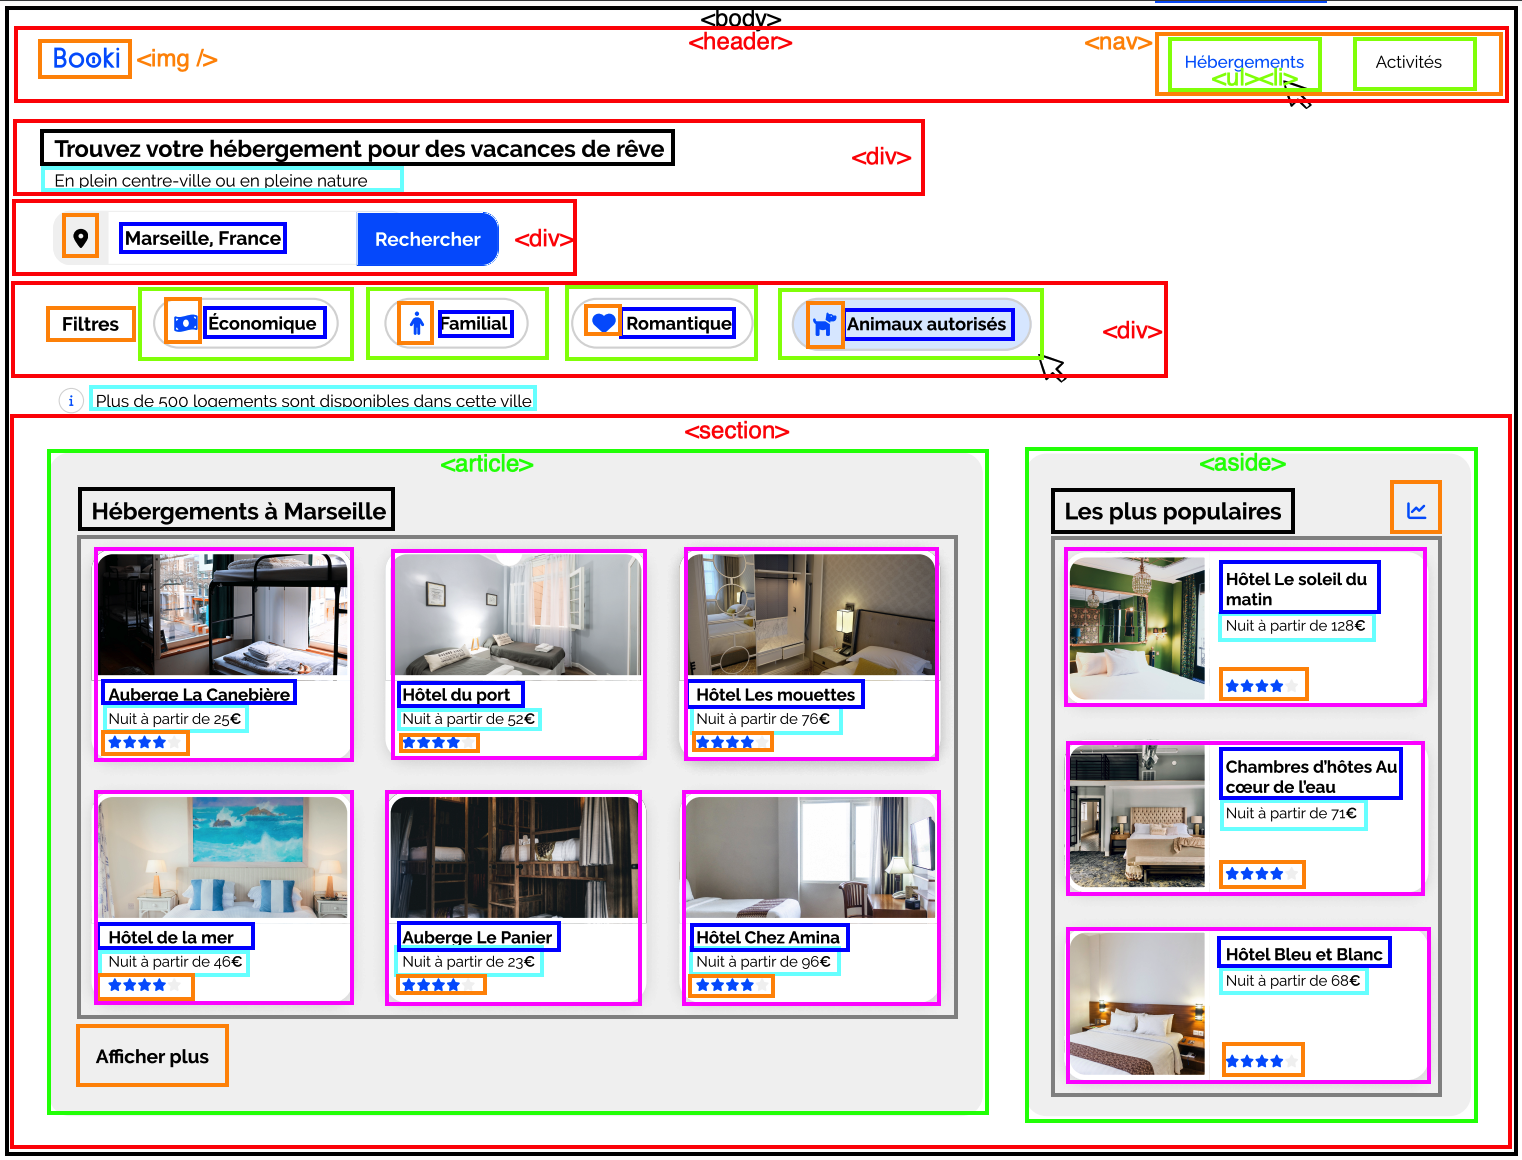
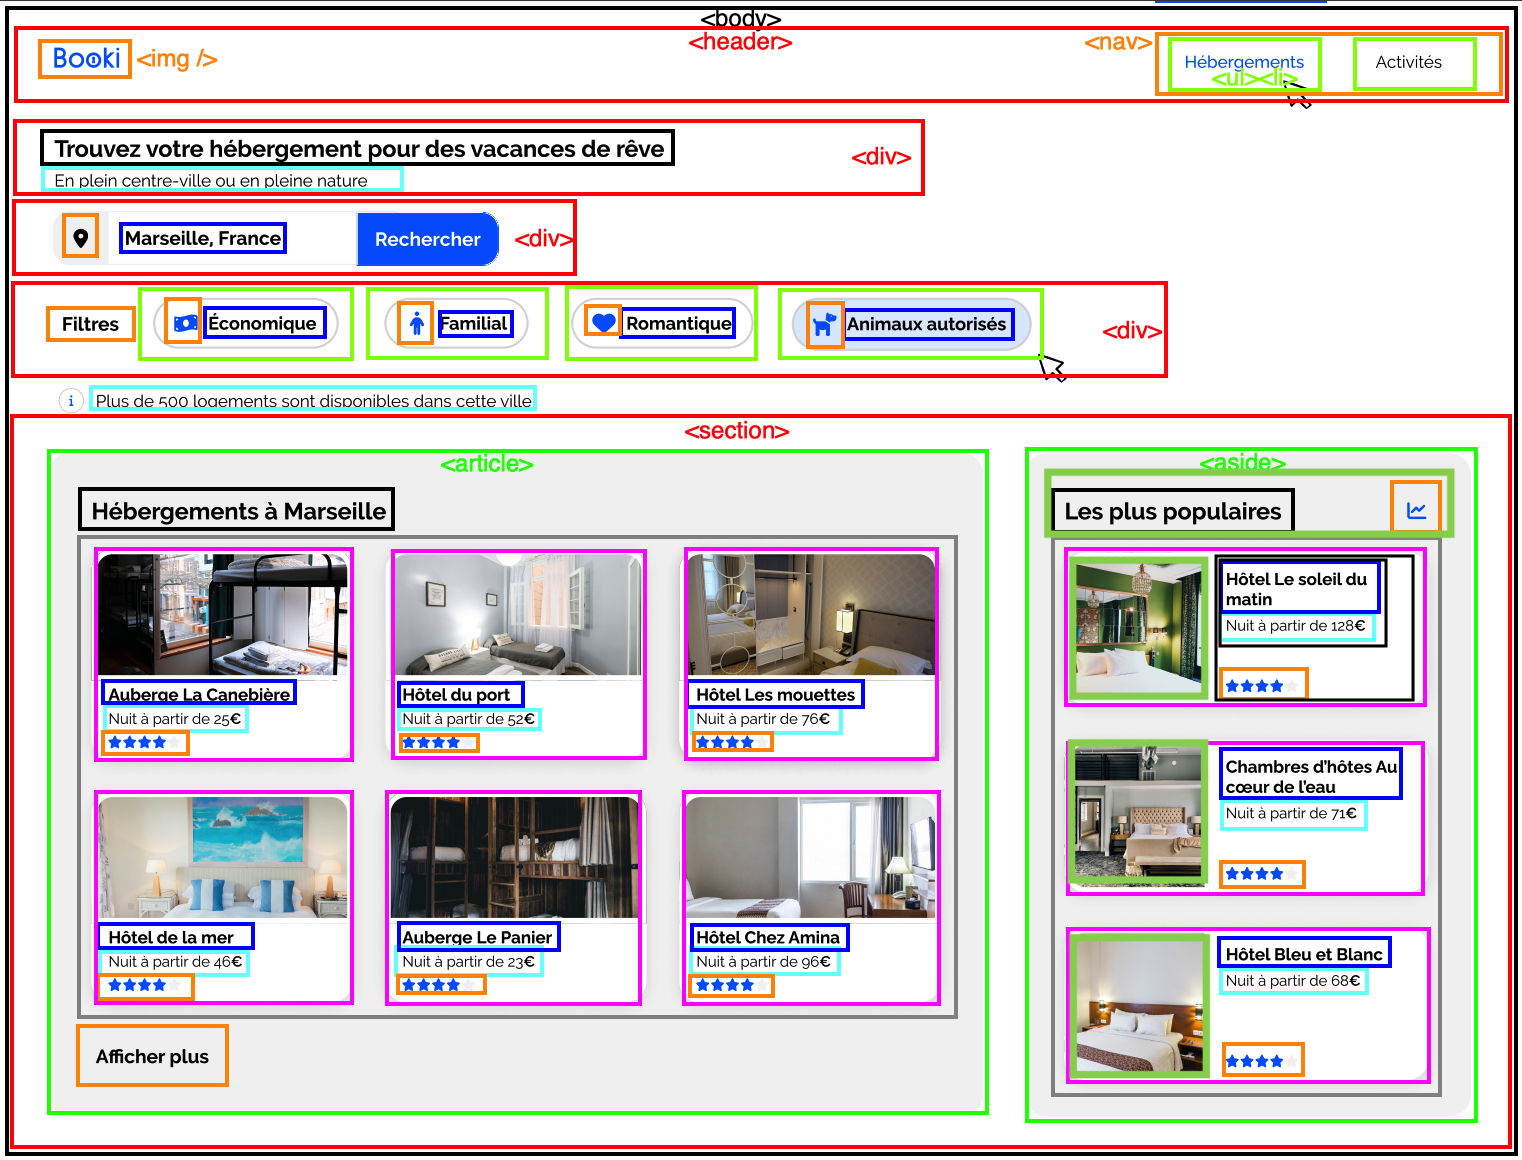
modification de la branche annexe

Changed region(s): [[0.6794, 0.4034, 0.9573, 0.7759], [0.6794, 0.8069, 0.8029, 0.931]]

diff --git a/index.html b/index.html
@@ -47,7 +47,7 @@
    <p><i id="i" class="fa-solid fa-info"></i>Plus de 500 logements sont disponibles dans cette ville</p>
     <section id="hebergement">
         <article>
-            <div class="box"> 
+            <div id="box"> 
                 <h2>Hébergements à Marseille</h2>   
                 <div id="card_lot_1">
                     <div class="card">
@@ -139,7 +139,31 @@
             </div>    
         </article>
         <aside>
-            <h2>Les plus populaires</h2>
+            <div id="box2">
+                <div id="populaire"><h2>Les plus populaires</h2><i class="fa-solid fa-chart-line"></i></div>
+                <div id="card_lot_2">
+                    <div class="aside_card">
+                        <div class="photo"><a href="images/hebergements/1_xlarge/7.jpg"><img src="images/hebergements/4_small/7.jpg" alt="Photo de l'auberge chez Amina "/></a></div>
+                        <div class="description2">
+                            <div class="mots">
+                                <h4>Hôtel Le soleil du matin</h4>
+                                <p>Nuit à partir de 128€</p>
+                            </div>
+                            <i class="fa-solid fa-star"></i>
+                            <i class="fa-solid fa-star"></i>
+                            <i class="fa-solid fa-star"></i>
+                            <i class="fa-solid fa-star"></i>
+                            <i class="fa-solid fa-star grey"></i>
+                        </div>
+                    </div>
+                    <div class="aside_card">
+
+                    </div>
+                    <div class="aside_card">
+
+                    </div>
+                </div>    
+            </div>
         </aside>
     </section>
     <h2></h2>
@@ -151,4 +175,3 @@
     </footer>
 </body>
 </html>
-/* rajout d'un commentaire en dernière ligne*/

diff --git a/styles/styles.css b/styles/styles.css
@@ -26,7 +26,7 @@ nav ul {
     background-color: rgb(255, 255, 255);
     margin-right: 30px;
     justify-content: space-between;
-    padding: 40px;
+    padding: 11%;
 }
 nav a {
     padding: 40px;
@@ -132,13 +132,16 @@ div ul i {
   }
 
   /* Hébergement à marseille */
-.card {
+  .container {
+    background-color: white;
+  }
+  .card {
     background-color: white;
     width: 246px;
     height: 199px;
     border-radius: 20px;
 }
-.box {
+#box {
     background-color: #F2F2F2;
     display: flex;
     flex-direction: column;
@@ -164,15 +167,12 @@ div ul i {
     top: 25px;
 
 }
-.container img {
-    object-fit: cover;
-}
 article img {
     width: 246px;
     height: 124px;
     border-radius: 20px 20px 0px 0px;
 }
-.box H4, .box p {
+#box H4, #box p {
     margin: 5px;
 }
 .fa-solid {
@@ -188,10 +188,53 @@ article img {
 .grey {
     color: #F2F2F2;
 }
-.box h2, .box h3 {
+#box h2, #box h3 {
     margin-left: 40px;
 }
-.box h2 {
+#box h2 {
     position: relative;
     top: 16px;
+}
+/* Les plus populaires */
+#box2 {
+    width: 420px;
+    height: 625px;
+    border-radius: 20px;
+    background-color: #F2F2F2;
+}
+#populaire {
+    display: flex;
+    justify-content: space-between;
+
+}
+#card_lot_2 {
+    display: flex;
+    flex-direction: column;
+    justify-content: space-around;
+    height: 500px;
+}
+.aside_card {
+    background-color: #9e6767;
+    display: flex;
+    flex-direction: row;
+    justify-content: space-evenly;
+    width: 343px;
+    height: 144px;
+    border-radius: 20px 20px 20px 20px;
+    margin-left: 20px;
+    margin-top: 30px;
+
+}
+.photo img {
+    object-fit: cover;
+    width: 137px;
+    height: 124px;
+    border-radius: 20px 0px 0px 20px;
+    padding
+}
+/* total */
+#hebergement {
+    display: flex;
+    flex-direction: row;
+    justify-content: space-between;
 }
